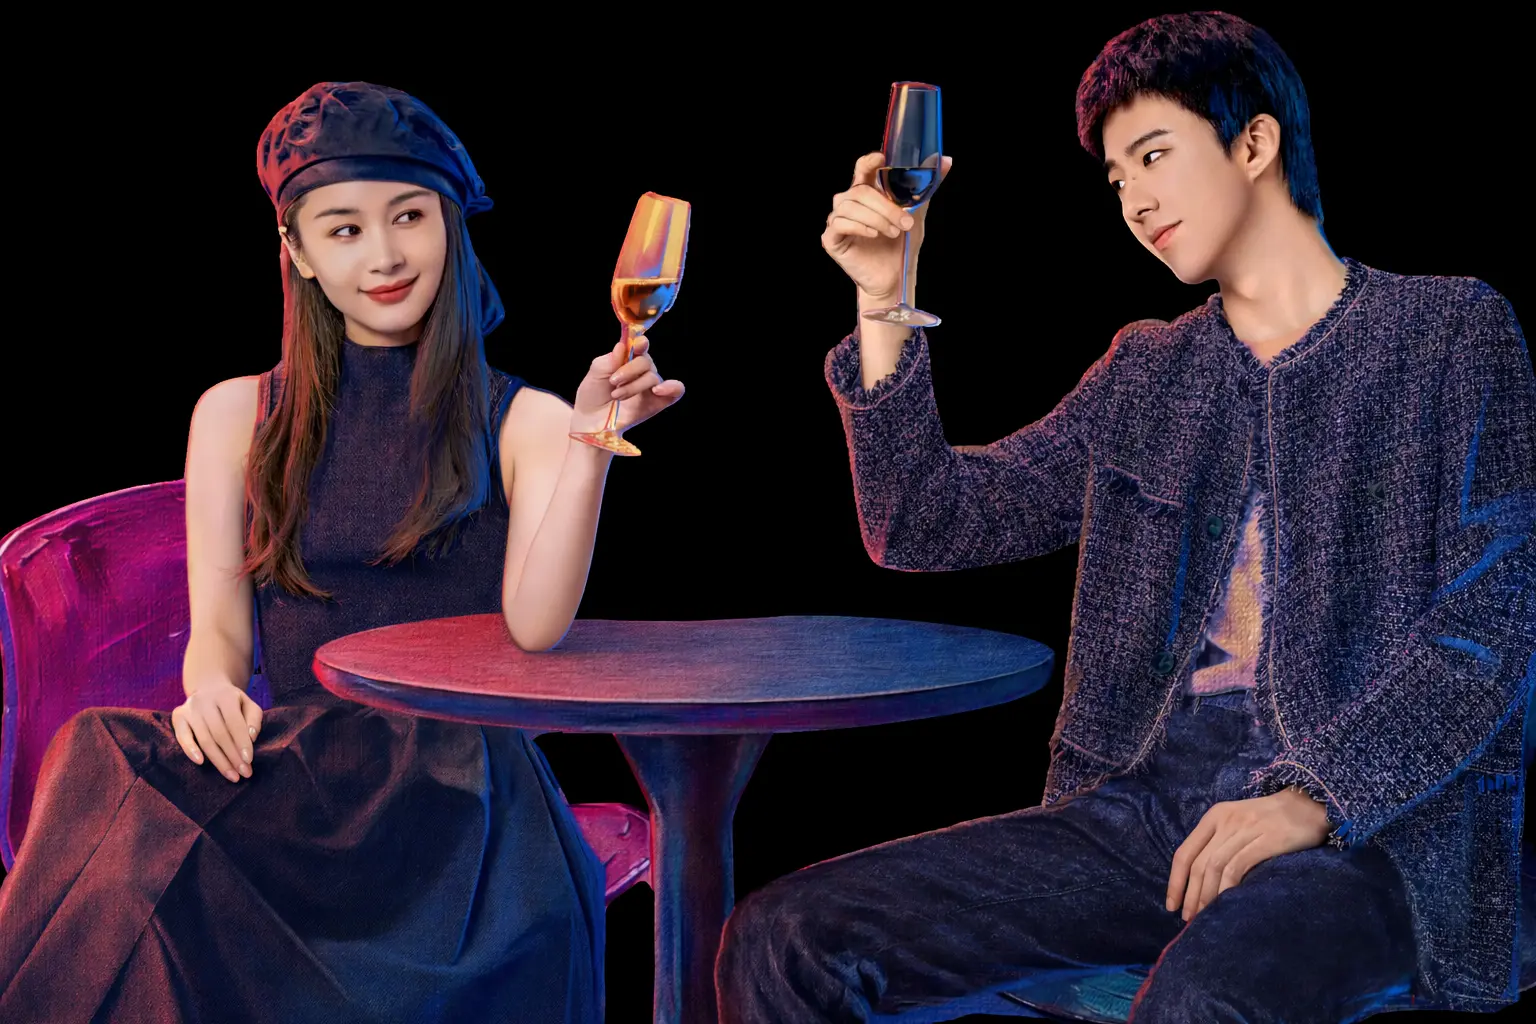
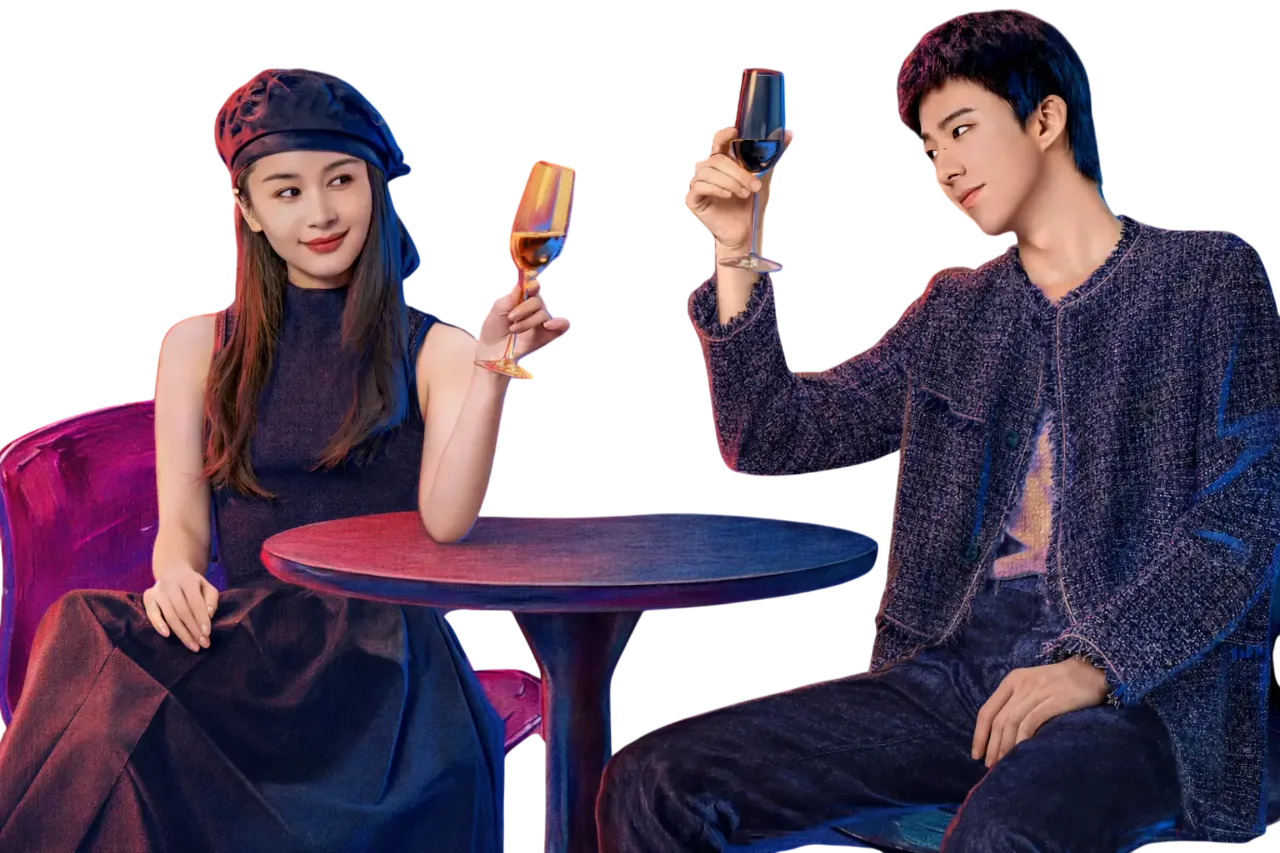
sync: update web + optimize

diff --git a/src/components/ChinaHero.tsx b/src/components/ChinaHero.tsx
@@ -15,54 +15,54 @@ interface MovieSlideAssets {
 
 const ASSETS_MAP: Record<string, MovieSlideAssets> = {
     "bach-nguyet-phan-tinh": {
-        bg: "/images/china-hero/bach-nguyet-bg.webp?v=1.5",
-        actor: "/images/china-hero/bach-nguyet-actor.webp?v=1.5",
-        logo: "/images/china-hero/bach-nguyet-logo.webp?v=1.5",
+        bg: "/images/china-hero/bach-nguyet-bg.webp?v=1.6",
+        actor: "/images/china-hero/bach-nguyet-actor.webp?v=1.6",
+        logo: "/images/china-hero/bach-nguyet-logo.webp?v=1.6",
     },
     "bui-hoa-hong": {
-        bg: "/images/china-hero/bui-hoa-hong-bg.webp?v=1.5",
-        actor: "/images/china-hero/bui-hoa-hong-actor.webp?v=1.5",
-        logo: "/images/china-hero/bui-hoa-hong-logo.webp?v=1.5",
+        bg: "/images/china-hero/bui-hoa-hong-bg.webp?v=1.6",
+        actor: "/images/china-hero/bui-hoa-hong-actor.webp?v=1.6",
+        logo: "/images/china-hero/bui-hoa-hong-logo.webp?v=1.6",
     },
     "dai-mong-quy-ly": {
-        bg: "/images/china-hero/dai-mong-bg.webp?v=1.5",
-        actor: "/images/china-hero/dai-mong-actor.webp?v=1.5",
-        logo: "/images/china-hero/dai-mong-logo.webp?v=1.5",
+        bg: "/images/china-hero/dai-mong-bg.webp?v=1.6",
+        actor: "/images/china-hero/dai-mong-actor.webp?v=1.6",
+        logo: "/images/china-hero/dai-mong-logo.webp?v=1.6",
     },
     "giang-ho-da-vu-thap-nien-dang": {
-        bg: "/images/china-hero/giang-ho-bg.webp?v=1.5",
-        actor: "/images/china-hero/giang-ho-actor.webp?v=1.5",
-        logo: "/images/china-hero/giang-ho-logo.png?v=1.5",
+        bg: "/images/china-hero/giang-ho-bg.webp?v=1.6",
+        actor: "/images/china-hero/giang-ho-actor.webp?v=1.6",
+        logo: "/images/china-hero/giang-ho-logo.png?v=1.6",
     },
     "mac-nhan-tang-kieu": {
-        bg: "/images/china-hero/mac-nhan-bg.webp?v=1.5",
-        actor: "/images/china-hero/mac-nhan-actor.webp?v=1.5",
-        logo: "/images/china-hero/mac-nhan-logo.webp?v=1.5",
+        bg: "/images/china-hero/mac-nhan-bg.webp?v=1.6",
+        actor: "/images/china-hero/mac-nhan-actor.webp?v=1.6",
+        logo: "/images/china-hero/mac-nhan-logo.webp?v=1.6",
     },
     "ngoc-minh-tra-cot": {
-        bg: "/images/china-hero/ngoc-minh-bg.webp?v=1.5",
-        actor: "/images/china-hero/ngoc-minh-actor.webp?v=1.5",
-        logo: "/images/china-hero/ngoc-minh-logo.webp?v=1.5",
+        bg: "/images/china-hero/ngoc-minh-bg.webp?v=1.6",
+        actor: "/images/china-hero/ngoc-minh-actor.webp?v=1.6",
+        logo: "/images/china-hero/ngoc-minh-logo.webp?v=1.6",
     },
     "con-ra-the-thong-gi-nua": {
-        bg: "/images/china-hero/the-thong-bg.webp?v=1.5",
-        actor: "/images/china-hero/the-thong-actor.webp?v=1.5",
-        logo: "/images/china-hero/the-thong-logo.webp?v=1.5",
+        bg: "/images/china-hero/the-thong-bg.webp?v=1.6",
+        actor: "/images/china-hero/the-thong-actor.webp?v=1.6",
+        logo: "/images/china-hero/the-thong-logo.webp?v=1.6",
     },
     "truc-ngoc": {
-        bg: "/images/china-hero/truc-ngoc-bg.webp?v=1.5",
-        actor: "/images/china-hero/truc-ngoc-actor.webp?v=1.5",
-        logo: "/images/china-hero/truc-ngoc-logo.webp?v=1.5",
+        bg: "/images/china-hero/truc-ngoc-bg.webp?v=1.6",
+        actor: "/images/china-hero/truc-ngoc-actor.webp?v=1.6",
+        logo: "/images/china-hero/truc-ngoc-logo.webp?v=1.6",
     },
     "xin-chao-1983": {
-        bg: "/images/china-hero/xin-chao-bg.webp?v=1.5",
-        actor: "/images/china-hero/xin-chao-actor.webp?v=1.5",
-        logo: "/images/china-hero/xin-chao-logo.webp?v=1.5",
+        bg: "/images/china-hero/xin-chao-bg.webp?v=1.6",
+        actor: "/images/china-hero/xin-chao-actor.webp?v=1.6",
+        logo: "/images/china-hero/xin-chao-logo.webp?v=1.6",
     },
     "duong-cung-ky-an-thanh-vu-phong-minh": {
-        bg: "/images/china-hero/tang-cung-bg.png?v=1.5",
-        actor: "/images/china-hero/tang-cung-actor.png?v=1.5",
-        logo: "/images/china-hero/tang-cung-logo.png?v=1.5",
+        bg: "/images/china-hero/tang-cung-bg.png?v=1.6",
+        actor: "/images/china-hero/tang-cung-actor.png?v=1.6",
+        logo: "/images/china-hero/tang-cung-logo.png?v=1.6",
     }
 };
 
